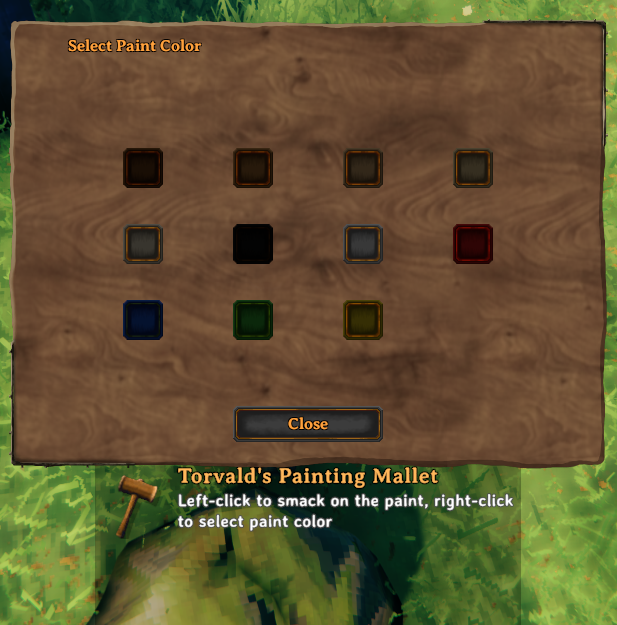
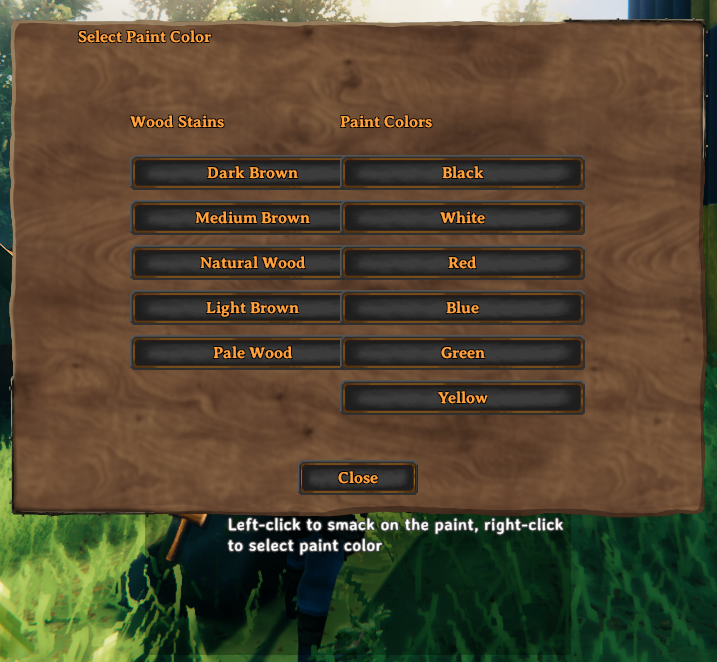
fixed color picker

diff --git a/torvalds-painters/torvalds-painters.cs b/torvalds-painters/torvalds-painters.cs
@@ -340,173 +340,87 @@ namespace TorvaldsPainters
                 return;
             }
             
-            // Create main panel using relative sizing (percentage of screen)
-            float screenWidth = Screen.width;
-            float screenHeight = Screen.height;
-            float panelWidth = Mathf.Min(screenWidth * 0.4f, 600f); // 40% of screen width, max 600px
-            float panelHeight = Mathf.Min(screenHeight * 0.5f, 450f); // 50% of screen height, max 450px
-            
+            // Simple fixed-size panel that works
             colorPickerPanel = GUIManager.Instance.CreateWoodpanel(
                 parent: GUIManager.CustomGUIFront.transform,
                 anchorMin: new Vector2(0.5f, 0.5f),
                 anchorMax: new Vector2(0.5f, 0.5f),
                 position: Vector2.zero,
-                width: panelWidth,
-                height: panelHeight,
+                width: 500f,
+                height: 400f,
                 draggable: false);
             
-            // Add title with native Valheim styling
+            // Big clear title
             var titleText = GUIManager.Instance.CreateText(
                 text: "Select Paint Color",
                 parent: colorPickerPanel.transform,
                 anchorMin: new Vector2(0.5f, 1f),
                 anchorMax: new Vector2(0.5f, 1f),
-                position: new Vector2(0f, -panelHeight * 0.08f), // 8% from top
+                position: new Vector2(0f, -30f),
                 font: GUIManager.Instance.Norse,
-                fontSize: Mathf.RoundToInt(panelHeight * 0.05f), // 5% of panel height
+                fontSize: 28,
                 color: GUIManager.Instance.ValheimOrange,
                 outline: true,
                 outlineColor: Color.black,
-                width: panelWidth * 0.8f, // 80% of panel width
-                height: panelHeight * 0.08f, // 8% of panel height
+                width: 400f,
+                height: 40f,
                 addContentSizeFitter: false);
             
-            // Apply native text styling
-            GUIManager.Instance.ApplyTextStyle(titleText.GetComponent<Text>(), GUIManager.Instance.ValheimOrange);
+            // Wood Stains section (left)
+            CreateSimpleSection("Wood Stains", new string[] {"Dark Brown", "Medium Brown", "Natural Wood", "Light Brown", "Pale Wood"}, -120f);
             
-            // Create color buttons in responsive grid layout based on panel size
-            int index = 0;
-            int columns = 4;
-            int rows = 3;
+            // Paint Colors section (right) 
+            CreateSimpleSection("Paint Colors", new string[] {"Black", "White", "Red", "Blue", "Green", "Yellow"}, 120f);
             
-            // Calculate sizes based on panel dimensions for responsiveness
-            float availableWidth = panelWidth * 0.85f; // Use 85% of panel width
-            float availableHeight = (panelHeight - 120f) * 0.8f; // Reserve space for title and close button
-            float buttonSize = Mathf.Min(availableWidth / (columns + 1), availableHeight / (rows + 1)) * 0.6f;
-            float spacingX = (availableWidth - (columns * buttonSize)) / (columns + 1);
-            float spacingY = (availableHeight - (rows * buttonSize)) / (rows + 1);
-            
-            float startX = -availableWidth / 2f + spacingX + buttonSize / 2f;
-            float startY = (availableHeight / 2f) - spacingY - buttonSize / 2f;
-            
-            foreach (var colorEntry in VikingColors)
-            {
-                int row = index / columns;
-                int col = index % columns;
-                float x = startX + col * (buttonSize + spacingX);
-                float y = startY - row * (buttonSize + spacingY);
-                
-                CreateColorButton(colorPickerPanel, colorEntry.Key, colorEntry.Value, new Vector2(x, y), buttonSize);
-                index++;
-            }
-            
-            // Add close button with native Valheim styling
+            // Close button
             var closeButton = GUIManager.Instance.CreateButton(
                 text: "Close",
                 parent: colorPickerPanel.transform,
                 anchorMin: new Vector2(0.5f, 0f),
                 anchorMax: new Vector2(0.5f, 0f),
-                position: new Vector2(0f, panelHeight * 0.1f), // 10% from bottom
-                width: panelWidth * 0.25f, // 25% of panel width
-                height: panelHeight * 0.08f); // 8% of panel height
-            
-            // Apply native button styling
-            GUIManager.Instance.ApplyButtonStyle(closeButton.GetComponent<Button>());
+                position: new Vector2(0f, 30f),
+                width: 100f,
+                height: 30f);
             closeButton.GetComponent<Button>().onClick.AddListener(CloseColorPicker);
             
             // Block player input while GUI is open
             GUIManager.BlockInput(true);
         }
         
-        private void CreateColorButton(GameObject parent, string colorName, Color color, Vector2 position, float size)
+        private void CreateSimpleSection(string sectionTitle, string[] colorNames, float xOffset)
         {
-            // Create button with native Valheim styling
-            var button = GUIManager.Instance.CreateButton(
-                text: "",
-                parent: parent.transform,
+            // Section header - simple and clear
+            var headerText = GUIManager.Instance.CreateText(
+                text: sectionTitle,
+                parent: colorPickerPanel.transform,
                 anchorMin: new Vector2(0.5f, 0.5f),
                 anchorMax: new Vector2(0.5f, 0.5f),
-                position: position,
-                width: size,
-                height: size);
-            
-            // Apply native button styling
-            GUIManager.Instance.ApplyButtonStyle(button.GetComponent<Button>());
-            
-            // Set button color with improved visibility
-            var image = button.GetComponent<UnityEngine.UI.Image>();
-            if (image != null)
-            {
-                // Create bright, distinctive display colors for GUI
-                Color displayColor;
-                switch (colorName)
-                {
-                    case "Dark Brown":
-                        displayColor = new Color(0.5f, 0.35f, 0.2f, 1f); // Rich dark brown
-                        break;
-                    case "Medium Brown": 
-                        displayColor = new Color(0.7f, 0.5f, 0.3f, 1f); // Medium brown
-                        break;
-                    case "Natural Wood":
-                        displayColor = new Color(0.85f, 0.7f, 0.5f, 1f); // Natural wood
-                        break;
-                    case "Light Brown":
-                        displayColor = new Color(0.9f, 0.8f, 0.6f, 1f); // Light brown
-                        break;
-                    case "Pale Wood":
-                        displayColor = new Color(0.95f, 0.9f, 0.8f, 1f); // Pale wood
-                        break;
-                    case "Black":
-                        displayColor = new Color(0.15f, 0.15f, 0.15f, 1f); // Dark but visible black
-                        break;
-                    case "White":
-                        displayColor = new Color(0.95f, 0.95f, 0.95f, 1f); // Clean white
-                        break;
-                    case "Red":
-                        displayColor = new Color(0.8f, 0.2f, 0.2f, 1f); // Vibrant red
-                        break;
-                    case "Blue":
-                        displayColor = new Color(0.2f, 0.4f, 0.8f, 1f); // Clear blue
-                        break;
-                    case "Green":
-                        displayColor = new Color(0.3f, 0.7f, 0.3f, 1f); // Bright green
-                        break;
-                    case "Yellow":
-                        displayColor = new Color(0.9f, 0.8f, 0.2f, 1f); // Bright yellow
-                        break;
-                    default:
-                        // Fallback - brighten any remaining colors
-                        displayColor = new Color(
-                            Mathf.Clamp01(color.r * 0.8f),
-                            Mathf.Clamp01(color.g * 0.8f), 
-                            Mathf.Clamp01(color.b * 0.8f),
-                            1f);
-                        break;
-                }
-                image.color = displayColor;
-            }
-            
-            // Add click handler
-            button.GetComponent<Button>().onClick.AddListener(() => SelectColor(colorName));
-            
-            // Add text label with native Valheim styling
-            var label = GUIManager.Instance.CreateText(
-                text: colorName,
-                parent: button.transform,
-                anchorMin: new Vector2(0.5f, 0f),
-                anchorMax: new Vector2(0.5f, 0f),
-                position: new Vector2(0f, -size * 0.4f), // Position relative to button size
+                position: new Vector2(xOffset, 120f),
                 font: GUIManager.Instance.AveriaSerifBold,
-                fontSize: Mathf.RoundToInt(size * 0.2f), // Font size relative to button size
-                color: GUIManager.Instance.ValheimBeige,
+                fontSize: 18,
+                color: GUIManager.Instance.ValheimOrange,
                 outline: true,
                 outlineColor: Color.black,
-                width: size * 1.5f, // Width relative to button size
-                height: size * 0.4f, // Height relative to button size
+                width: 200f,
+                height: 25f,
                 addContentSizeFitter: false);
             
-            // Apply native text styling
-            GUIManager.Instance.ApplyTextStyle(label.GetComponent<Text>(), GUIManager.Instance.ValheimBeige);
+            // Create buttons - one per color, reasonably sized
+            for (int i = 0; i < colorNames.Length; i++)
+            {
+                var colorButton = GUIManager.Instance.CreateButton(
+                    text: colorNames[i],
+                    parent: colorPickerPanel.transform,
+                    anchorMin: new Vector2(0.5f, 0.5f),
+                    anchorMax: new Vector2(0.5f, 0.5f),
+                    position: new Vector2(xOffset, 80f - (i * 35f)),
+                    width: 160f, // Reasonable width for text
+                    height: 30f);  // Reasonable height
+                
+                // Add click handler
+                string colorName = colorNames[i]; // Capture for closure
+                colorButton.GetComponent<Button>().onClick.AddListener(() => SelectColor(colorName));
+            }
         }
         
         private void SelectColor(string colorName)
